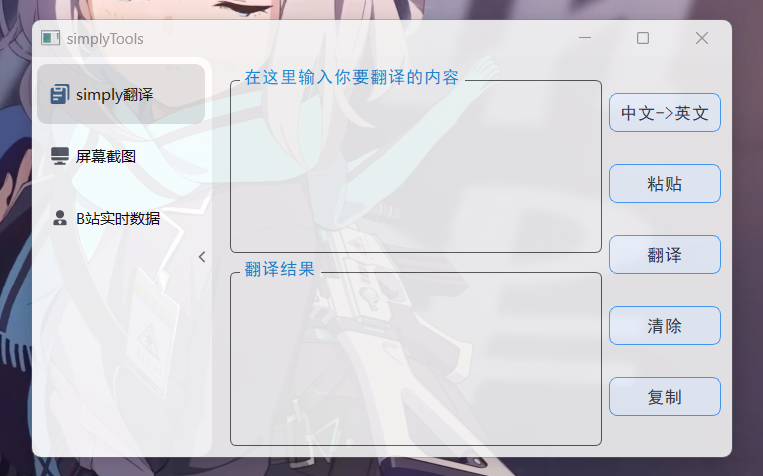
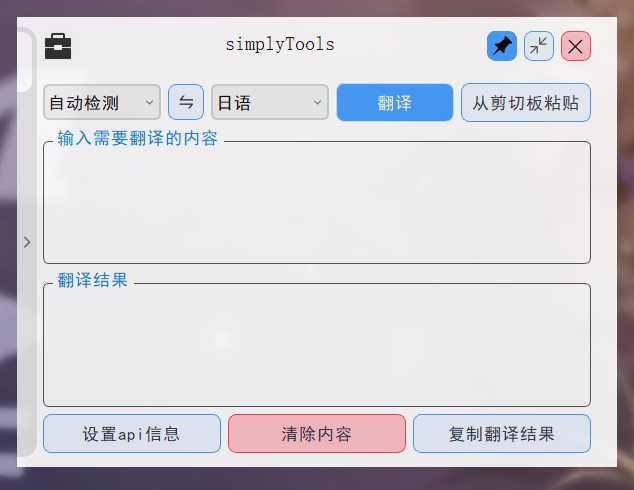
fix: 翻译优化

Changed region(s): [[0.0, 0.0, 1.0, 1.0], [0.8391, 0.6471, 0.8991, 0.7059], [0.8391, 0.3529, 0.8991, 0.4118]]

diff --git a/src/simplyTranslate/simplyTranslateWidget.cpp b/src/simplyTranslate/simplyTranslateWidget.cpp
@@ -29,46 +29,59 @@ void simplyTranslateWidget::initUI() {
     tranToBox = new QGroupBox();
     ed_tranFrom = new QTextEdit();
     ed_tranTo = new QTextEdit();
-    tranOptionBtn = new MButton("中文->英文");
-    pasteBtn = new MButton("粘贴");
-    tranBtn = new MButton("翻译");
-    clearBtn = new MButton("清除");
-    copyBtn = new MButton("复制");
 
-    auto *mainLayout = new QHBoxLayout(this);
-    auto *edLayout = new QVBoxLayout();
-    auto *btnLayout = new QVBoxLayout();
+    srcTypeBox = new QComboBox();
+    tarTypeBox = new QComboBox();
+    exchangeBtn = new MButton();
+    setUserInfoBtn = new MButton("设置api信息");
+
+    exchangeBtn->setIcon(QIcon(":/exchangeIcon.png"));
+
+    pasteBtn = new MButton("从剪切板粘贴");
+    tranBtn = new MButton("翻译");
+    clearBtn = new MButton("清除内容");
+    copyBtn = new MButton("复制翻译结果");
+
+    exchangeBtn->setFixedSize(36,36);
+    srcTypeBox->setFixedHeight(36);
+    tarTypeBox->setFixedHeight(36);
+
+    auto *mainLayout = new QVBoxLayout(this);
+    auto *topOperatorLayout = new QHBoxLayout();
+    auto *bottomOperatorLayout = new QHBoxLayout();
+
+    topOperatorLayout->addWidget(srcTypeBox);
+    topOperatorLayout->addWidget(exchangeBtn);
+    topOperatorLayout->addWidget(tarTypeBox);
+    topOperatorLayout->addWidget(tranBtn);
+    topOperatorLayout->addWidget(pasteBtn);
+
+    bottomOperatorLayout->addWidget(setUserInfoBtn);
+    bottomOperatorLayout->addWidget(clearBtn);
+    bottomOperatorLayout->addWidget(copyBtn);
+
+    mainLayout->addLayout(topOperatorLayout);
+    mainLayout->addWidget(tranFromBox);
+    mainLayout->addWidget(tranToBox);
+    mainLayout->addLayout(bottomOperatorLayout);
 
     tranFromBox->setLayout(new QVBoxLayout);
     tranFromBox->layout()->addWidget(ed_tranFrom);
     tranToBox->setLayout(new QVBoxLayout);
     tranToBox->layout()->addWidget(ed_tranTo);
 
-    tranFromBox->setTitle("在这里输入你要翻译的内容");
+    tranFromBox->setTitle("输入需要翻译的内容");
     tranToBox->setTitle("翻译结果");
-
-    edLayout->addWidget(tranFromBox);
-    edLayout->addWidget(tranToBox);
-
-    btnLayout->addWidget(tranOptionBtn);
-    btnLayout->addWidget(tranBtn);
-    btnLayout->addWidget(clearBtn);
-    btnLayout->addWidget(pasteBtn);
-    btnLayout->addWidget(copyBtn);
 
     tranBtn->setCategory(MBtn_suggested);
     clearBtn->setCategory(MBtn_warning);
 
-    mainLayout->addLayout(edLayout);
-    mainLayout->addLayout(btnLayout);
-
-//    mainWindow
-
-    connect(tranOptionBtn, &MButton::clicked, this, &simplyTranslateWidget::on_btn_FormAndTo_clicked);
+//    connect(tranOptionBtn, &MButton::clicked, this, &simplyTranslateWidget::on_btn_FormAndTo_clicked);
     connect(pasteBtn, &MButton::clicked, this, &simplyTranslateWidget::on_btn_paste_clicked);
     connect(tranBtn, &MButton::clicked, this, &simplyTranslateWidget::on_btn_tran_clicked);
     connect(clearBtn, &MButton::clicked, this, &simplyTranslateWidget::on_btn_clear_clicked);
     connect(copyBtn, &MButton::clicked, this, &simplyTranslateWidget::on_btn_copy_clicked);
+    connect(exchangeBtn, &MButton::clicked, this, &simplyTranslateWidget::on_btn_exchange_clicked);
 
     //链接显示翻译结果
     connect(translatetool,&TranslateTool::translateOK,this,[=](QString res){
@@ -81,21 +94,6 @@ void simplyTranslateWidget::initUI() {
         mNotificationBox->sendMsg(res, QIcon(":/errorIcon.png"));
         tranToBox->setTitle("翻译结果");
     });
-
-    TranStyle = new QVector<QString>    //显示翻译类型
-            {
-                    "中文->英文",
-                    "英文->中文"
-            };
-
-    tranOptionBtn->setText(TranStyle->value(0));
-
-    TranStylecode = new QVector<QPair<QString,QString>>
-            {
-                    QPair<QString,QString>{"zh","en"},
-                    QPair<QString,QString>{"en","zh"}
-            };
-
     qDebug() << QSslSocket::supportsSsl()
              << QSslSocket::sslLibraryBuildVersionString()
              << QSslSocket::sslLibraryVersionString();
@@ -126,7 +124,6 @@ void simplyTranslateWidget::on_btn_tran_clicked()  //翻译
 {
     //获取翻译内容
     QString src = ed_tranFrom->toPlainText();
-    int curIndex = isZHToeEN ? 0 : 1;
     if(src.isEmpty())
     {
         mNotificationBox->sendMsg("请输入需要翻译的内容", MSG_Warning);
@@ -137,12 +134,9 @@ void simplyTranslateWidget::on_btn_tran_clicked()  //翻译
         mNotificationBox->sendMsg("网络似乎未连接...", MSG_Error);
         return;
     }
-    if(!(TranStylecode->size() > curIndex))
-    {
-        QMessageBox::warning(this,"错误","curIndex error");
-    }
     tranToBox->setTitle("翻译中...");
-    translatetool->TranslateFromBaidu(src,TranStylecode->value(curIndex).first,TranStylecode->value(curIndex).second);
+    translatetool->TranslateFromBaidu(src,srcTypeMap.value(srcTypeBox->currentIndex()).second
+                                      ,tarTypeMap.value(tarTypeBox->currentIndex()).second);
 }
 
 void simplyTranslateWidget::on_btn_clear_clicked() //清除
@@ -163,21 +157,29 @@ void simplyTranslateWidget::on_btn_copy_clicked()  //复制
 }
 
 
-void simplyTranslateWidget::on_btn_FormAndTo_clicked()
-{
-    if(tranOptionBtn->text() == TranStyle->value(0)) {
-        tranOptionBtn->setText(TranStyle->value(1));
-        isZHToeEN = false;
-    }
-    else {
-        tranOptionBtn->setText(TranStyle->value(0));
-        isZHToeEN = true;
+void simplyTranslateWidget::showEvent(QShowEvent *event) {
+    QWidget::showEvent(event);
+    if(isFirstShow) {
+        mNotificationBox = new MNotificationBox(this);
+        for(auto &pair : srcTypeMap) {
+            srcTypeBox->addItem(pair.first);
+        }
+        for(auto &pair : tarTypeMap) {
+            tarTypeBox->addItem(pair.first);
+        }
+        srcTypeBox->setCurrentIndex(0);
+        tarTypeBox->setCurrentIndex(0);
+
+        isFirstShow = false;
     }
 }
 
-void simplyTranslateWidget::showEvent(QShowEvent *event) {
-    QWidget::showEvent(event);
-    if(mNotificationBox == nullptr) {
-        mNotificationBox = new MNotificationBox(this);
+void simplyTranslateWidget::on_btn_exchange_clicked() {
+    if(srcTypeBox->currentText() == "自动检测") {
+        mNotificationBox->sendMsg("目标语言不能设置为自动检测", MSG_Error);
+        return;
     }
+    QString &&t = srcTypeBox->currentText();
+    srcTypeBox->setCurrentText(tarTypeBox->currentText());
+    tarTypeBox->setCurrentText(t);
 }

diff --git a/src/simplyTranslate/simplyTranslateWidget.h b/src/simplyTranslate/simplyTranslateWidget.h
@@ -10,8 +10,37 @@
 #include <QGroupBox>
 #include <QTextEdit>
 #include <QComboBox>
+#include <QVector>
 #include "customComponents/MButton.h"
 #include "customComponents/MNotificationBox.h"
+
+const QVector<QPair<QString, QString>> srcTypeMap {
+        {"自动检测", "auto"},
+        {"中文", "zh"},
+        {"繁体中文", "cht"},
+        {"英语", "en"},
+        {"日语", "jp"},
+        {"粤语", "yue"},
+        {"文言文", "wyw"},
+        {"韩语", "kor"},
+        {"法语", "fra"},
+        {"德语", "de"},
+        {"俄语", "ru"},
+        {"西班牙语", "spa"}
+};
+const QVector<QPair<QString, QString>> tarTypeMap {
+        {"中文", "zh"},
+        {"繁体中文", "cht"},
+        {"英语", "en"},
+        {"日语", "jp"},
+        {"粤语", "yue"},
+        {"文言文", "wyw"},
+        {"韩语", "kor"},
+        {"法语", "fra"},
+        {"德语", "de"},
+        {"俄语", "ru"},
+        {"西班牙语", "spa"}
+};
 
 class simplyTranslateWidget : public QWidget{
     Q_OBJECT
@@ -35,7 +64,7 @@ private slots:
 
     void on_btn_copy_clicked();
 
-    void on_btn_FormAndTo_clicked();
+    void on_btn_exchange_clicked();
 
 private:
 
@@ -44,13 +73,18 @@ private:
 
     TranslateTool *translatetool;
 
-    bool isZHToeEN = true;  // 当前是中文到英文的翻译
+    bool isFirstShow = true;
+
+    QComboBox *srcTypeBox = nullptr;
+    QComboBox *tarTypeBox = nullptr;
+    MButton *exchangeBtn = nullptr;
+    MButton *setUserInfoBtn = nullptr;
 
     QGroupBox *tranFromBox = nullptr;
     QGroupBox *tranToBox = nullptr;
     QTextEdit *ed_tranTo = nullptr;
     QTextEdit *ed_tranFrom = nullptr;
-    MButton *tranOptionBtn = nullptr;
+
     MButton *pasteBtn = nullptr;
     MButton *tranBtn = nullptr;
     MButton *clearBtn = nullptr;

diff --git a/src/mainWidget/mtitlebar.cpp b/src/mainWidget/mtitlebar.cpp
@@ -11,6 +11,10 @@ MTitleBar::MTitleBar(QWidget *parent) : QWidget(parent)
     iconLabel = new QLabel("图标");
     titleLabel = new QLabel("title");
 
+    QFont font = titleLabel->font();
+    font.setPixelSize(20);
+    titleLabel->setFont(font);
+
     iconLabel->setScaledContents(true);
 
     fixBtn = new MButton("");
@@ -116,22 +120,18 @@ void MTitleBar::showEvent(QShowEvent *event)
 void MTitleBar::mousePressEvent(QMouseEvent *event)
 {
     QWidget::mousePressEvent(event);
-    isPressed = true;
     tPos = event->globalPos() - mainWindow->geometry().topLeft();
 }
 
 void MTitleBar::mouseReleaseEvent(QMouseEvent *event)
 {
     QWidget::mouseReleaseEvent(event);
-    isPressed = false;
 }
 
 void MTitleBar::mouseMoveEvent(QMouseEvent *event)
 {
     QWidget::mouseMoveEvent(event);
-    if(isPressed) {
-        mainWindow->move(event->globalPos() - tPos);
-    }
+    mainWindow->move(event->globalPos() - tPos);
 }
 
 QWidget *MTitleBar::findMainWindow(QObject *obj)

diff --git a/src/customComponents/MButton.cpp b/src/customComponents/MButton.cpp
@@ -8,7 +8,7 @@
 #include <QDebug>
 #include <QStyle>
 
-MButton::MButton(const QString &text, QWidget *parent) : QPushButton(text, parent){
+MButton::MButton(const QString &text, Category type, QWidget *parent) : QPushButton(text, parent){
     // 加载样式表
     QFile file(":/MButton.qss");
     file.open(QIODevice::ReadOnly);
@@ -17,7 +17,7 @@ MButton::MButton(const QString &text, QWidget *parent) : QPushButton(text, paren
     }
     file.close();
 
-    setCategory(MBtn_ordinary); //设置默认按钮样式
+    setCategory(type); //设置默认按钮样式
 }
 
 void MButton::setCategory(Category category)

diff --git a/src/customComponents/MButton.h b/src/customComponents/MButton.h
@@ -16,7 +16,7 @@ enum Category{
 class MButton : public QPushButton{
     Q_OBJECT
 public:
-    MButton(const QString &text, QWidget *parent = nullptr);
+    explicit MButton(const QString &text = "", Category type = MBtn_ordinary, QWidget *parent = nullptr);
     void setCategory(Category category);
 
 private:

diff --git a/src/mainWidget/mtitlebar.h b/src/mainWidget/mtitlebar.h
@@ -37,7 +37,6 @@ private:
 
     QWidget *mainWindow = nullptr;
 
-    bool isPressed = false;
     QPoint tPos = QPoint(0,0);
 };
 

diff --git a/readme.md b/readme.md
@@ -4,9 +4,9 @@
 
 ![img](img/img.png)
 
-![img.png](img/img2.png)
+![img](img/img2.png)
 
-![img_1.png](img/img3.png)
+![img](img/img3.png)
 ## V1.0 准备实现的功能
 
 - [x] 集成简单翻译
